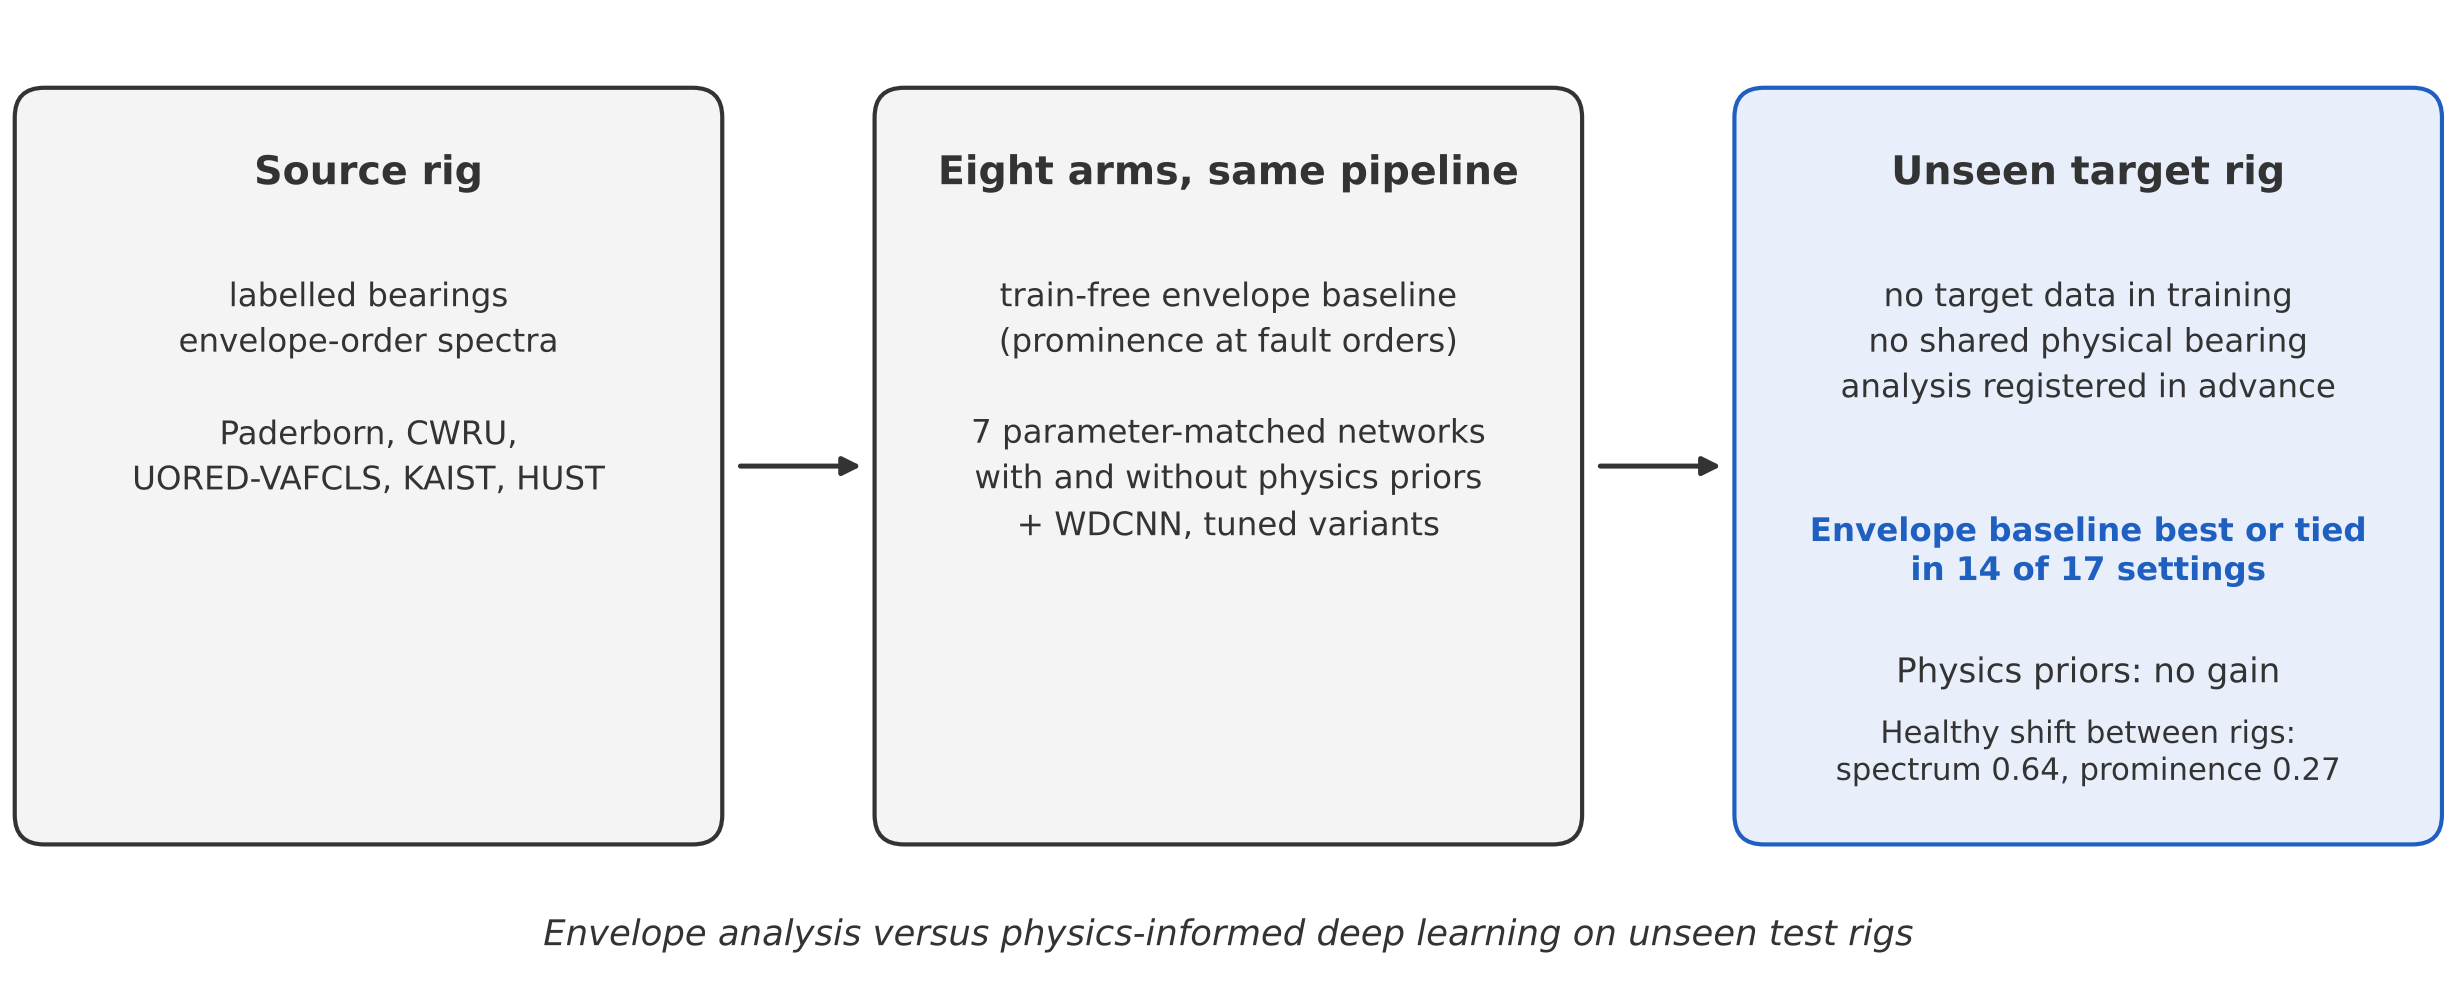
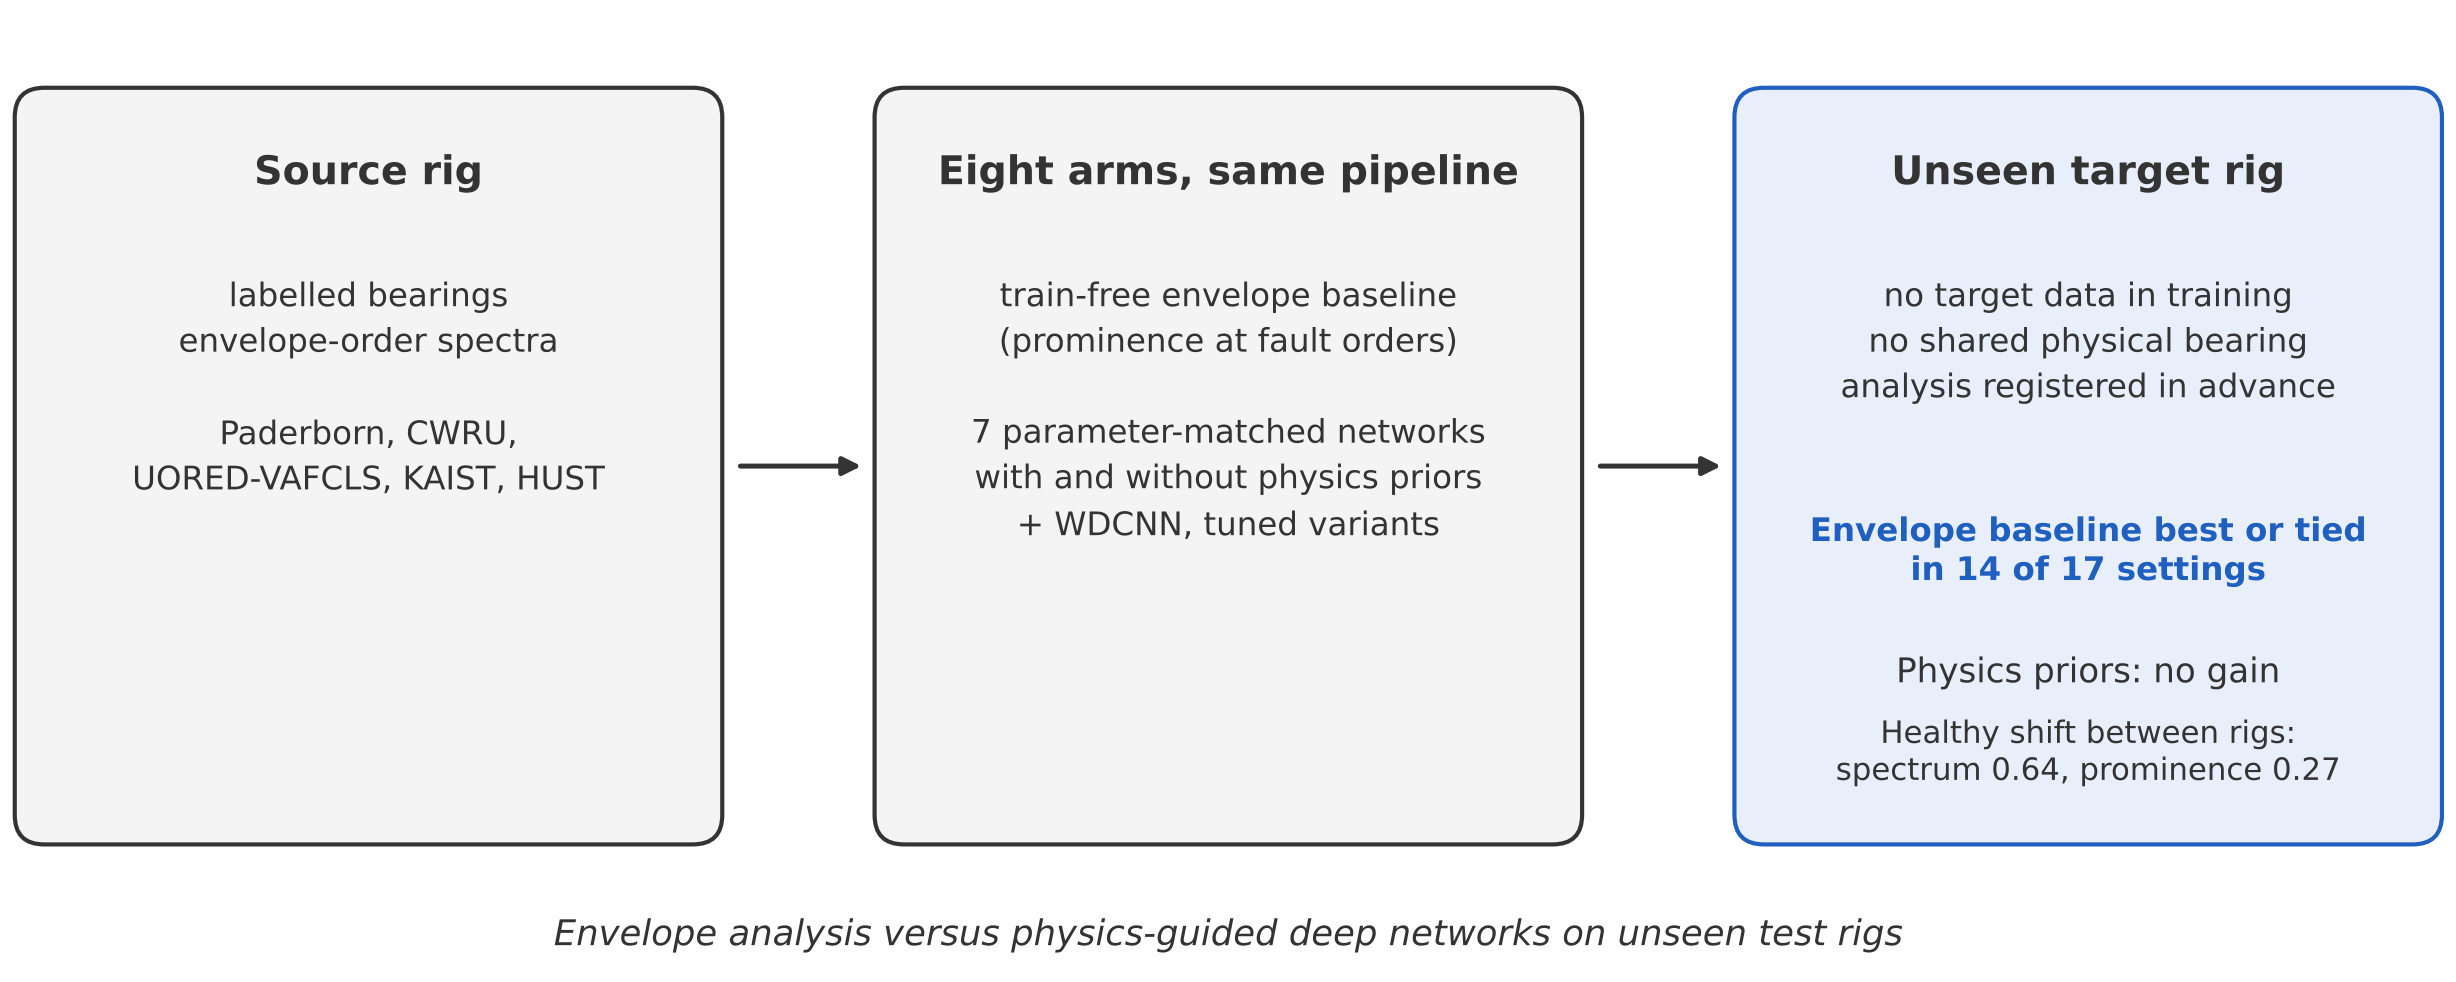
Title wording: physics-guided deep networks

Changed region(s): [[0.2166, 0.9165, 0.7736, 0.9776]]

diff --git a/make_graphical_abstract.py b/make_graphical_abstract.py
@@ -17,6 +17,6 @@ for x0, x1 in ((29.8, 35.4), (64.8, 70.4)):
 ax.text(85, 17.5, "Envelope baseline best or tied\nin 14 of 17 settings", ha="center", fontsize=7.8, color=ACC, fontweight="bold", va="center")
 ax.text(85, 12.2, "Physics priors: no gain", ha="center", fontsize=8.2, color=DARK)
 ax.text(85, 7.8, "Healthy shift between rigs:\nspectrum 0.64, prominence 0.27", ha="center", fontsize=7.4, color=DARK, va="bottom")
-ax.text(50, 1.5, "Envelope analysis versus physics-informed deep learning on unseen test rigs", ha="center", fontsize=8.5, style="italic", color=DARK)
+ax.text(50, 1.5, "Envelope analysis versus physics-guided deep networks on unseen test rigs", ha="center", fontsize=8.5, style="italic", color=DARK)
 fig.savefig("submission/Graphical_abstract.pdf"); fig.savefig("submission/Graphical_abstract.png", dpi=300)
 from PIL import Image; im = Image.open("submission/Graphical_abstract.png"); print(im.size)
